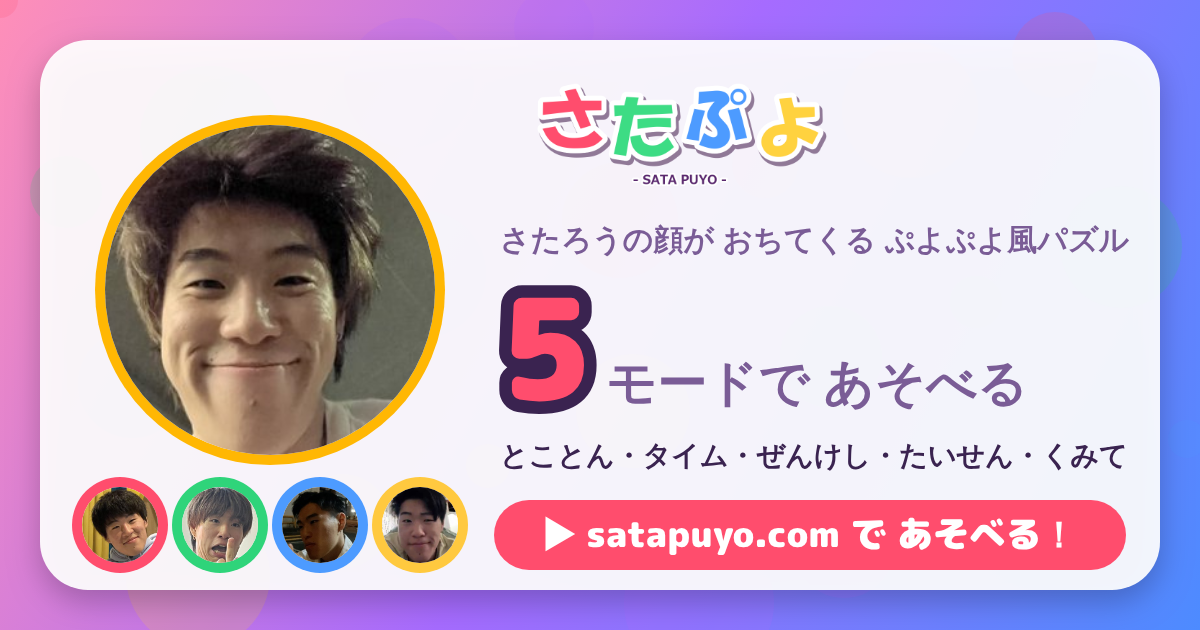
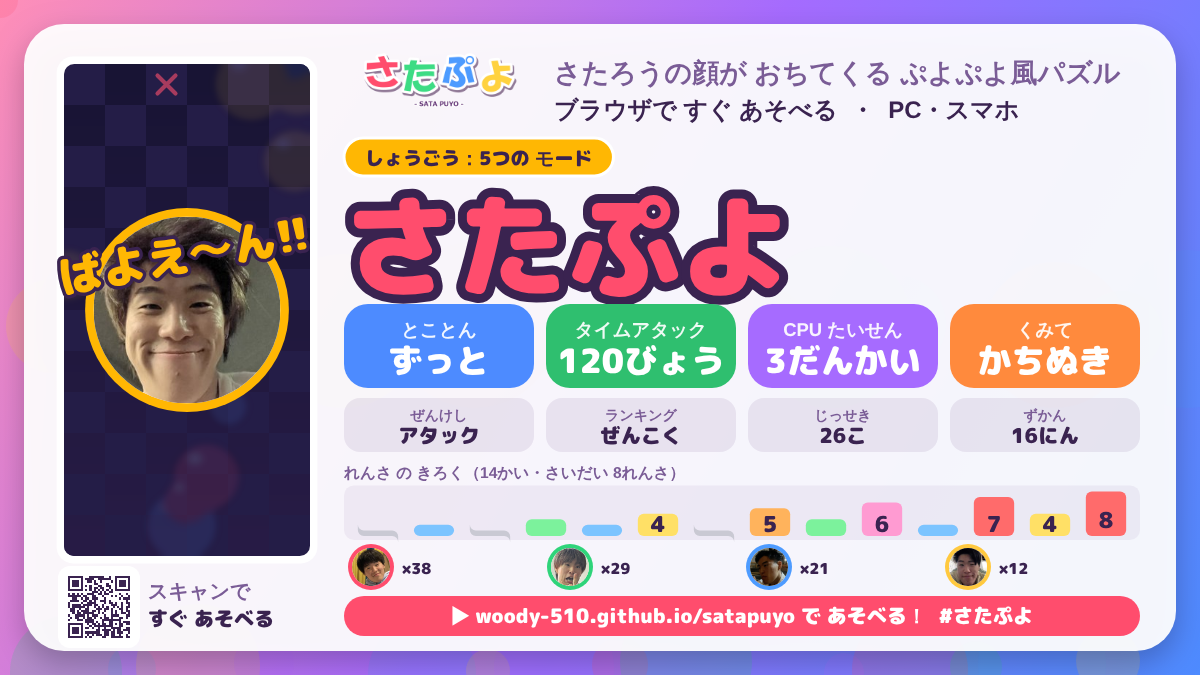
SNS のプレビュー画像を新しいURL・今のシェア画像のデザインで作りなおす
Claude-Session: https://claude.ai/code/session_01DBz8UX6wqfkzSfTtDdqhoj

diff --git a/index.html b/index.html
@@ -14,7 +14,7 @@
   <meta property="og:url" content="https://woody-510.github.io/satapuyo/">
   <meta property="og:image" content="https://woody-510.github.io/satapuyo/assets/ui/ogp.png">
   <meta property="og:image:width" content="1200">
-  <meta property="og:image:height" content="630">
+  <meta property="og:image:height" content="675">
   <meta name="twitter:card" content="summary_large_image">
   <link rel="icon" href="assets/ui/icon.png">
   <link rel="preconnect" href="https://fonts.googleapis.com">
